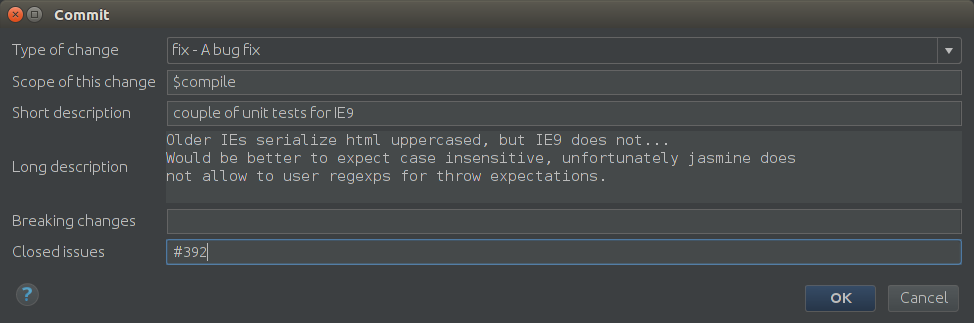
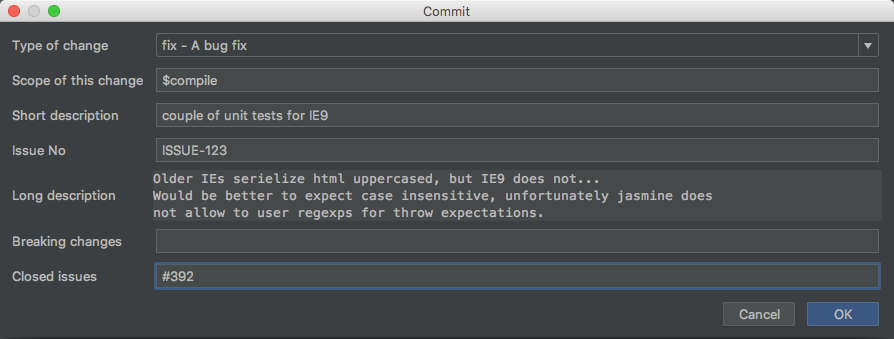
Add field to enter an issue number

diff --git a/src/com/leroymerlin/commit/CommitDialog.java b/src/com/leroymerlin/commit/CommitDialog.java
@@ -30,13 +30,21 @@ public class CommitDialog extends DialogWrapper {
     }
 
     String getCommitMessage() {
-        return String.format("%s(%s): %s%n%n%s%s%s",
+        return String.format("%s(%s): %s%s%n%n%s%s%s",
                 panel.getChangeType(),
                 panel.getChangeScope(),
                 panel.getShortDescription(),
+                getIssueNo(),
                 getLongDescription(),
                 getBreakingChanges(),
                 getClosedIssues());
+    }
+
+    private String getIssueNo() {
+        if (isBlank(panel.getIssueNo())) {
+            return "";
+        }
+        return String.format(" [%s]", panel.getIssueNo());
     }
 
     private String getLongDescription() {

diff --git a/src/com/leroymerlin/commit/CommitPanel.java b/src/com/leroymerlin/commit/CommitPanel.java
@@ -12,6 +12,7 @@ public class CommitPanel {
     private JComboBox changeType;
     private JTextField changeScope;
     private JTextField shortDescription;
+    private JTextField issueNo;
     private JTextArea longDescription;
     private JTextField closedIssues;
     private JTextField breakingChanges;
@@ -37,6 +38,10 @@ public class CommitPanel {
 
     String getShortDescription() {
         return shortDescription.getText().trim();
+    }
+
+    String getIssueNo() {
+        return issueNo.getText().trim();
     }
 
     String getLongDescription() {

diff --git a/README.md b/README.md
@@ -3,7 +3,7 @@
 This plugin allows to create a commit message with the following template:
 
 ```
-<type>(<scope>): <subject>
+<type>(<scope>): <subject> [<issue no>]
 <BLANK LINE>
 <body>
 <BLANK LINE>
